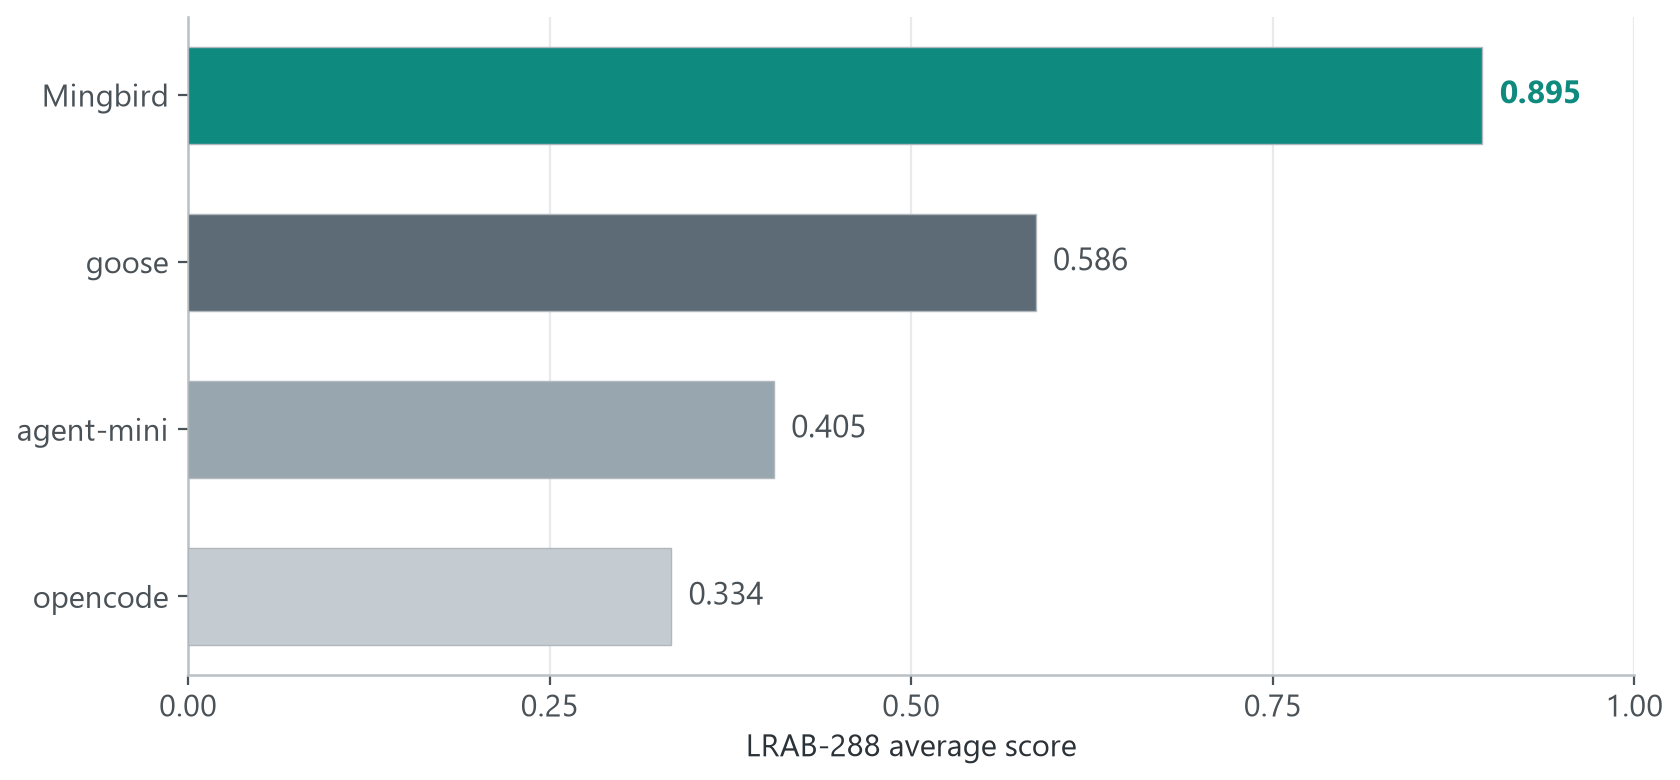
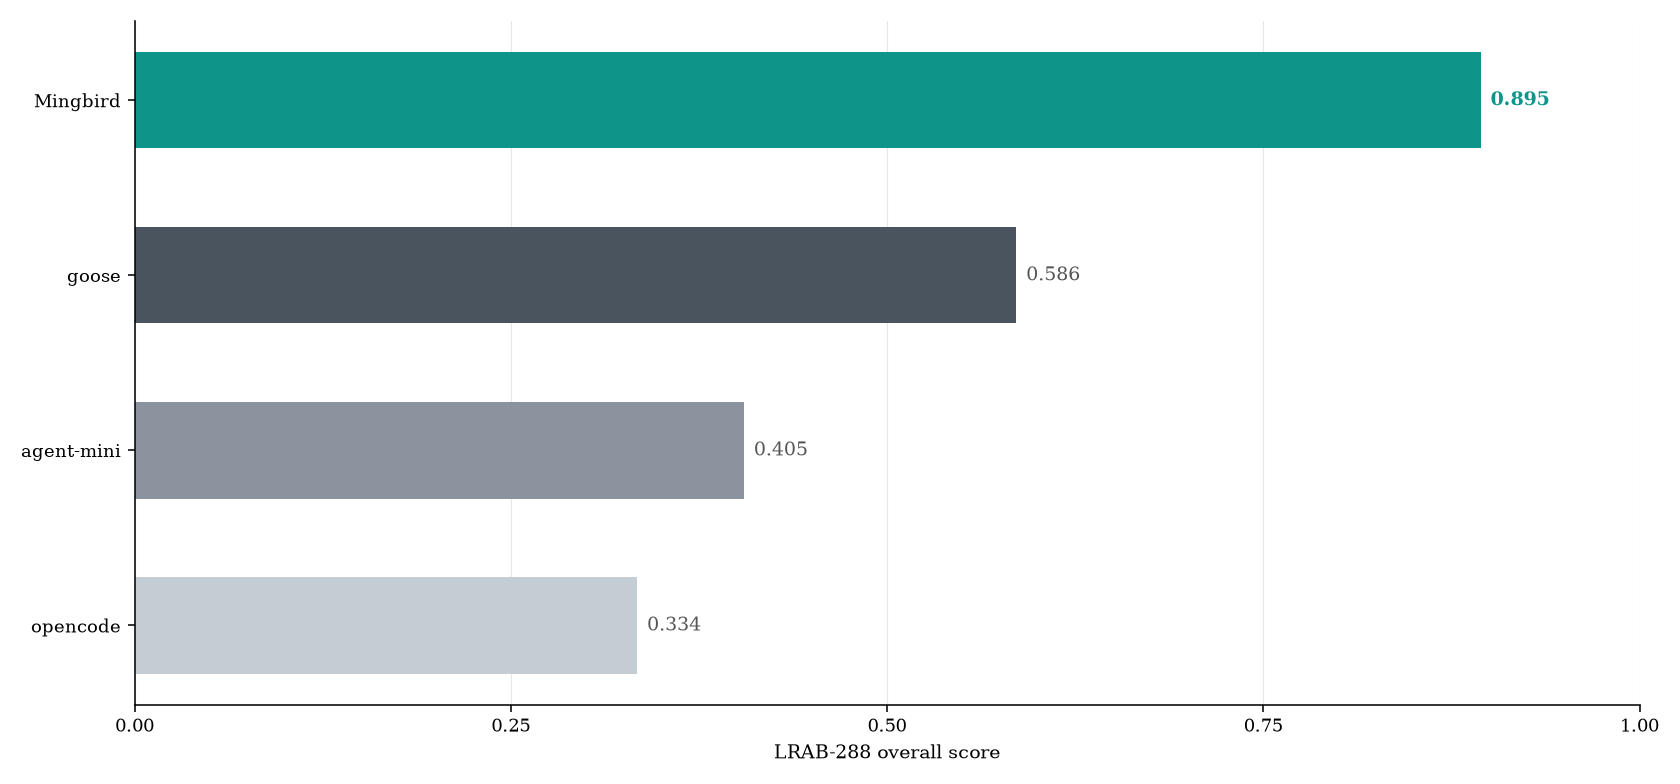
docs: de-slop pass across public surfaces
- MoE annotations removed everywhere (selective labeling: e2b is
  MatFormer 5B/2.3B-effective, only the 35B was tagged); parameter
  tiers only, no architecture cherry-picks
- Benchmarks section rebuilt as three layers: overview table,
  audited subsections each with an italic caveat line, raw-data links
- tau2 non-comparability caveat added (simulator qwen3.8-flash,
  not official gpt-4o, no leaderboard comparison)
- ablation deltas switched to exact paired differences
  (-0.098/-0.048/-0.015/-0.003); bootstrap CIs cross zero, framed
  as directional
- prose pass EN/zh: tagline, purple prose, label-colon telegraphese,
  translation-tone dictionary (12 entries); figures regenerated
  MoE-free with a checked regen script

diff --git a/docs/assets/regen_figures.py b/docs/assets/regen_figures.py
@@ -1,0 +1,168 @@
+"""Regenerate the LRAB figures from benchmarks/lrab_scores.csv.
+
+Run from anywhere:  python docs/assets/regen_figures.py
+
+Outputs (written next to this script):
+  - lrab_by_model.png   grouped bars, per-model segment scores, 4 harnesses
+  - lrab_overall.png    horizontal bars, overall score per harness
+
+Style matches the previous figures: serif, flat colors, value labels, no
+chart title. X-tick labels carry model name + parameter tier only — no
+architecture tags (the old generator stamped "(MoE)" on the 35B group).
+
+Every aggregate is checked against the FACTS.md numbers before plotting;
+the script fails loudly if the CSV no longer reproduces them.
+"""
+
+import csv
+import sys
+from collections import defaultdict
+from pathlib import Path
+
+import matplotlib
+
+matplotlib.use("Agg")
+import matplotlib.pyplot as plt
+
+HERE = Path(__file__).resolve().parent
+CSV_PATH = HERE.parent.parent / "benchmarks" / "lrab_scores.csv"
+
+MODELS = [
+    ("gemma4_e2b", "gemma4:e2b (2B)"),
+    ("qwen3.5_4b", "qwen3.5:4b (4B)"),
+    ("gemma4_12b", "gemma4:12b (12B)"),
+    ("ornith1.5_35b", "ornith-1.5:35b (35B)"),
+]
+HARNESSES = ["Mingbird", "goose", "agent-mini", "opencode"]
+COLORS = {
+    "Mingbird": "#0e9488",
+    "goose": "#4a545e",
+    "agent-mini": "#8b949e",
+    "opencode": "#c4ccd4",
+}
+GRAY = "#555555"
+
+# FACTS.md §4 — the script refuses to draw figures from numbers that drift.
+EXPECTED_SEGMENTS = {
+    "Mingbird": [0.799, 0.921, 0.920, 0.939],
+    "goose": [0.266, 0.636, 0.620, 0.822],
+    "agent-mini": [0.246, 0.706, 0.576, 0.092],
+    "opencode": [0.017, 0.404, 0.140, 0.776],
+}
+EXPECTED_OVERALL = {"Mingbird": 0.895, "goose": 0.586, "agent-mini": 0.405, "opencode": 0.334}
+
+FIGSIZE = (12, 5.6)  # 1680 x 780 px at dpi=140, same canvas as the old figures
+DPI = 140
+
+
+def load_scores():
+    seg = defaultdict(list)
+    with open(CSV_PATH, newline="", encoding="utf-8") as f:
+        for row in csv.DictReader(f):
+            seg[(row["harness"], row["model"])].append(float(row["score"]))
+    segments = {
+        h: [sum(seg[(h, m)]) / len(seg[(h, m)]) for m, _ in MODELS] for h in HARNESSES
+    }
+    overall = {h: sum(segments[h]) / len(MODELS) for h in HARNESSES}
+    return segments, overall
+
+
+def check(segments, overall):
+    problems = []
+    for h in HARNESSES:
+        for i, got in enumerate(segments[h]):
+            if round(got, 3) != EXPECTED_SEGMENTS[h][i]:
+                problems.append(
+                    f"{h} {MODELS[i][1]}: got {got:.3f}, expected {EXPECTED_SEGMENTS[h][i]}"
+                )
+        if round(overall[h], 3) != EXPECTED_OVERALL[h]:
+            problems.append(f"{h} overall: got {overall[h]:.3f}, expected {EXPECTED_OVERALL[h]}")
+    if problems:
+        sys.exit("CSV does not reproduce FACTS.md numbers:\n  " + "\n  ".join(problems))
+
+
+def style_axes(ax):
+    ax.spines["top"].set_visible(False)
+    ax.spines["right"].set_visible(False)
+
+
+def fig_by_model(segments):
+    fig, ax = plt.subplots(figsize=FIGSIZE, dpi=DPI)
+    n_groups, n_bars = len(MODELS), len(HARNESSES)
+    width = 0.19
+    offsets = [(i - (n_bars - 1) / 2) * width for i in range(n_bars)]
+
+    for i, h in enumerate(HARNESSES):
+        xs = [g + offsets[i] for g in range(n_groups)]
+        vals = segments[h]
+        ax.bar(xs, vals, width=width, label=h, color=COLORS[h], edgecolor="none")
+        for x, v in zip(xs, vals):
+            ax.annotate(
+                f"{v:.3f}",
+                (x, v),
+                xytext=(0, 2),
+                textcoords="offset points",
+                ha="center",
+                fontsize=7.5,
+                color=COLORS["Mingbird"] if h == "Mingbird" else GRAY,
+                fontweight="bold" if h == "Mingbird" else "normal",
+            )
+
+    ax.set_xticks(range(n_groups))
+    ax.set_xticklabels([label for _, label in MODELS], fontsize=10)
+    ax.set_ylim(0, 1.0)
+    ax.set_yticks([0, 0.25, 0.50, 0.75, 1.0])
+    ax.set_ylabel("LRAB-288 task score", fontsize=10)
+    ax.grid(axis="y", alpha=0.3, linewidth=0.6)
+    ax.set_axisbelow(True)
+    ax.tick_params(labelsize=9)
+    style_axes(ax)
+    ax.legend(ncol=n_bars, frameon=False, loc="upper center", bbox_to_anchor=(0.5, 1.10), fontsize=9)
+    fig.tight_layout()
+    fig.savefig(HERE / "lrab_by_model.png")
+    plt.close(fig)
+
+
+def fig_overall(overall):
+    fig, ax = plt.subplots(figsize=FIGSIZE, dpi=DPI)
+    order = sorted(HARNESSES, key=lambda h: overall[h])  # lowest at the bottom axis position 0
+    ys = range(len(order))
+    ax.barh(ys, [overall[h] for h in order], height=0.55, color=[COLORS[h] for h in order])
+    for y, h in zip(ys, order):
+        v = overall[h]
+        ax.annotate(
+            f"{v:.3f}",
+            (v, y),
+            xytext=(5, 0),
+            textcoords="offset points",
+            va="center",
+            fontsize=10,
+            color=COLORS["Mingbird"] if h == "Mingbird" else GRAY,
+            fontweight="bold" if h == "Mingbird" else "normal",
+        )
+    ax.set_yticks(list(ys))
+    ax.set_yticklabels(order, fontsize=10)
+    ax.set_xlim(0, 1.0)
+    ax.set_xticks([0, 0.25, 0.50, 0.75, 1.0])
+    ax.set_xlabel("LRAB-288 overall score", fontsize=10)
+    ax.grid(axis="x", alpha=0.3, linewidth=0.6)
+    ax.set_axisbelow(True)
+    ax.tick_params(labelsize=9)
+    style_axes(ax)
+    fig.tight_layout()
+    fig.savefig(HERE / "lrab_overall.png")
+    plt.close(fig)
+
+
+def main():
+    segments, overall = load_scores()
+    check(segments, overall)
+    fig_by_model(segments)
+    fig_overall(overall)
+    print("wrote lrab_by_model.png, lrab_overall.png")
+    print("xticks:", ", ".join(label for _, label in MODELS))
+
+
+if __name__ == "__main__":
+    matplotlib.rcParams.update({"font.family": "serif", "font.serif": ["DejaVu Serif"]})
+    main()

diff --git a/README.md b/README.md
@@ -1,8 +1,8 @@
 # 🐦 Mingbird
 
-**Small local models on your laptop that actually finish the job — not just chat.**
+**A local-first agent harness that gets real work out of 2–9B models on integrated graphics.**
 
-Mingbird is a local-first agent harness for Windows + Ollama (experimental Linux/macOS builds), designed for the models most people can actually run: **2–9B parameters on integrated graphics and 16–32 GB of RAM** (measured up to a 35B MoE). No cloud, no account, no telemetry (no outbound connections at all beyond the Ollama/search endpoints you explicitly configure); an integrated or entry-level discrete GPU is all it asks.
+It targets Windows + Ollama (experimental Linux/macOS builds) and the models most people can actually run: **2–9B parameters, integrated graphics, 16–32 GB of RAM** (measured up to 35B). No cloud, no account, no telemetry — no outbound connections at all beyond the Ollama/search endpoints you explicitly configure.
 
 [中文版](README_zh.md) · Apache-2.0 · Windows 10/11 · Linux & macOS (experimental) · Offline-first
 
@@ -12,15 +12,15 @@ Mingbird is a local-first agent harness for Windows + Ollama (experimental Linux
 
 Mainstream agent frameworks are designed for large cloud models. Feed them a 2B local model and everything from the demo videos falls apart: full-tool prefill blows the context, the model cannot self-correct, it loops on tool calls, or quietly gives up halfway through.
 
-**Our position: these are harness defects, not model defects.** Small models usually "know what to do" — what they cannot do is reliably "emit and execute" it. Mingbird is the harness that fills exactly that gap — the same model that only chats elsewhere starts getting work done here.
+**Our claim: these are harness defects, not model defects.** Small models usually know what to do — what they cannot do is reliably output and execute it, step by step. Mingbird is the harness that fills exactly that gap: the same model that only chats elsewhere delivers artifacts here.
 
 ## What it can do
 
 - **Real tasks**: write code and run the tests, organize files, web research, analyze data, call MCP tools.
-- **Streaming output + visible thinking** — watch it reason, then the thinking folds away and the answer flows.
+- **Streaming output + visible thinking** — the delivery streams; the thinking folds away once the run is done.
 - **Drag-and-drop / paste attachments** — drop a file into the chat or press Ctrl+V: clipboard files and screenshots become attachments on the spot, sent along with your instruction.
 - **Voice input out of the box** — the installer bundles a local STT model (pure CPU, ~20× real time) that stops automatically when you stop talking.
-- **Task time-box (off by default)** — type `40` / `1.5h` / `half an hour` into the box, or write "限时 40 分钟" (or "timebox 40 minutes") right in the task description (auto-detected, highest priority); the harness nudges the run to wind down as the deadline approaches. Local-model users care about wall-clock time — deadlines are a first-class setting.
+- **Task time-box (off by default)** — type `40` / `1.5h` / `half an hour` into the box, or write "限时 40 分钟" (or "timebox 40 minutes") right in the task description (auto-detected, highest priority); the harness nudges the run to wind down as the deadline approaches. Local-model users care about wall-clock time.
 - **Session memory** — history persists locally; searchable and replayable.
 - **Model auto-detection** — whatever you pulled in Ollama is what you use, up to 256K context.
 - **Skills & MCP** — markdown skills load on demand; MCP servers are plain JSON config.
@@ -39,34 +39,47 @@ Every mechanism comes from "small models can't do X, so the harness does it for 
 | …escape tool-demo loops | Q&A/task layering (chat answers once and stops) + signature-level anti-loop with an escalating ladder: nudge → hard reset → graceful exit |
 | …fit all tools in context | flat prefill loads by category; factory prefill is exactly 797 tokens, and CI fails any change that grows it by a single byte |
 | …emit a large file in one call | per-call output cap is 8192 (was 2048); when truncation still bites, the model gets "write the skeleton, then append" chunked feedback instead of an empty-turn spiral |
-| …stop crawling through huge files | crawl guard v2 works on a byte budget (2× file size, clamped 64KB–512KB) — it never refuses, progress keeps flowing |
+| …stop crawling through huge files | crawl guard v2 works on a byte budget (2× file size, clamped to 64KB–512KB) — it never refuses |
 | …stay on target in long tasks | delivery self-check gate: before claiming done, it re-reads the original task and verifies its work |
 | …resist destructive impulses | a five-ring safety net catches them (see [Safety](#safety)) |
 
-Zero hardcoding: Ollama address, executable, GPU environment variables, model aliases — all detected at runtime or configured in `~/.ollama_agent/config.json` (see [AGENTS.md](AGENTS.md)). Quality floor: 441 tests in v1.6.0, the prefill zero-growth assertion included.
+Nothing is hardcoded: the Ollama address, executable, GPU environment variables, and model aliases are detected at runtime or configured in `~/.ollama_agent/config.json` (see [AGENTS.md](AGENTS.md)). The quality floor is held up by 441 tests in v1.6.0, the prefill zero-growth assertion included.
 
 ## Measured: same model, different harness
 
-### LRAB-288 (our benchmark, raw data public)
+Layer 1 is the whole picture in four lines; layer 2 gives the design, the table, and the caveat for each benchmark; layer 3 points at the raw data.
 
-4 harnesses (Mingbird / goose / agent-mini / opencode, all stock) × 4 open models (gemma4:e2b 2B · qwen3.5:4b 4B · gemma4:12b 12B · ornith-1.5:35b 35B MoE) × 18 real tasks = 288 cells. Same machine, same budgets (workflow 90 min / long-horizon 180 min), deterministic artifact scoring, timeouts score 0.
+**Layer 1 — at a glance:**
+
+| Benchmark | Run by | Result in one line |
+|---|---|---|
+| LRAB-288 | us (self-built) | overall 0.895 vs goose 0.586 / agent-mini 0.405 / opencode 0.334 |
+| τ²-bench, 3 domains | Sierra Research (external) | retail 0.789 / airline 0.740 / telecom 1.000 — first, tied on telecom |
+| BFCL v3 multi_turn | Berkeley FC Leaderboard (external) | 36.25% vs 46.50% — we lose to the model's native FC channel |
+| Ablations (v1.5.0 code) | us | removing `finish_gate` costs the most: −0.098 |
+
+### LRAB-288 (our benchmark)
+
+4 harnesses (Mingbird / goose / agent-mini / opencode, all stock) × 4 open models (gemma4:e2b 2B · qwen3.5:4b 4B · gemma4:12b 12B · ornith-1.5:35b 35B) × 18 real tasks = 288 cells. Same machine, same budgets (workflow 90 min / long-horizon 180 min), deterministic artifact scoring, timeouts score 0.
 
 ![By model size](docs/assets/lrab_by_model.png)
 
-| Harness | 2B | 4B | 12B | 35B MoE | **overall** |
+| Harness | 2B | 4B | 12B | 35B | **overall** |
 |---|---|---|---|---|---|
 | **Mingbird** | **0.799** | **0.921** | **0.920** | **0.939** | **0.895** |
 | goose | 0.266 | 0.636 | 0.620 | 0.822 | 0.586 |
 | agent-mini | 0.246 | 0.706 | 0.576 | 0.092 | 0.405 |
 | opencode | 0.017 | 0.404 | 0.140 | 0.776 | 0.334 |
 
-- **The 2B column is the story**: 0.799 vs 0.017–0.266 — the only harness with no small-model cliff, at exactly the size laptops can run. On the 3 long-horizon tasks Mingbird also leads (0.808).
-- **Significance** (Holm-corrected Wilcoxon, paired by task): the edge is significant on 2B/4B/12B. At 35B the field compresses — Mingbird vs goose is p=0.085, not significant. We state that bound as-is.
-- **Ablations** (v1.5.0 code, same-code baseline 0.821, 18 tasks × 4 variants): remove `finish_gate` → 0.723 (−0.098, the largest single cost) · remove `verify_feedback` → 0.772 (−0.049) · remove `anti_loop` → 0.805 (−0.016) · remove `flat_prefill` → 0.818 (−0.003, neutral at 2B). All four mechanisms are non-negative. (Separate batch from the 0.895 above; the two are not comparable.)
+- **The 2B column is the story**: 0.799 vs 0.017–0.266 — of the four harnesses, the only one with no small-model cliff, and 2B is the size an iGPU laptop runs comfortably.
+- **Significance** (Holm-corrected Wilcoxon, paired by task): the edge is significant on 2B/4B/12B. At 35B the field compresses — Mingbird vs goose is p=0.085, not significant. We state that bound.
+- On the 3 long-horizon tasks (LH-01…03, 180-minute budget each), Mingbird leads as well (0.808 average).
+
+*Self-built benchmark, 18 tasks — the task set, scoring code, and per-cell data are all public; rerun it yourself.*
 
 ### τ²-bench, three domains, four harnesses (external)
 
-Sierra Research's [τ²-bench](https://github.com/sierra-research/tau2-bench), all three domains, final. Identical setup for every harness: the agent is the same local `qwen3.5:4b` (Ollama), the user simulator is cloud `qwen3.8-flash` for all four, pass^1, error cells score 0, and scoring checks the final database state — an agent that fakes tool calls fails the DB replay.
+Sierra Research's [τ²-bench](https://github.com/sierra-research/tau2-bench), all three domains, final. Identical setup for every harness: the agent is the same local `qwen3.5:4b` (Ollama), pass^1, error cells score 0, and scoring checks the final database state — an agent that fakes tool calls fails the DB replay.
 
 ![tau2](docs/assets/tau2_headline.png)
 
@@ -77,13 +90,45 @@ Sierra Research's [τ²-bench](https://github.com/sierra-research/tau2-bench), a
 | goose | 0.588 | 0.460 | 0.377 |
 | opencode | 0.246 | 0.460 | 0.298 |
 
-telecom is a saturated domain — the two leaders both take full marks, so it separates nothing; we report it as-is rather than picking a friendlier cut.
+telecom separates nothing — the two leaders both take full marks — so we keep it and don't shop for a friendlier cut of the numbers.
 
-### The number we don't like
+*The user simulator is cloud `qwen3.8-flash`, identical for all four harnesses — not the official gpt-4o user setup, so these runs are not comparable with the official τ² leaderboard.*
 
-BFCL v3 multi_turn (800 tasks, same 4B model, official evaluator): **Mingbird 36.25% vs the model's native function-calling channel 46.50%**. On a 4B, a dedicated FC channel beats a general agent loop — the cost of generality, disclosed as-is.
+### BFCL v3 multi_turn — the number we don't like (external)
 
-All raw data is public: [`benchmarks/lrab_scores.csv`](benchmarks/lrab_scores.csv) (288 cells), the τ² three-domain manifests, and the BFCL two-arm scoring details — [benchmarks/](benchmarks/README.md).
+800 tasks (base / miss_func / miss_param / long_context, 200 each), same 4B model, official evaluator, two arms: the model's native function-calling channel vs Mingbird's general loop.
+
+| Channel | Overall |
+|---|---|
+| Native FC (qwen35-4b-FC) | **46.50%** |
+| Mingbird agent loop | 36.25% |
+
+On a 4B, the dedicated FC channel beats a general agent loop — the cost of generality, disclosed as-is.
+
+*We lose this one. The native FC channel also cannot carry LRAB-style multi-step artifact work in the first place (no working directory, no file tools, no budget management).*
+
+### Ablations: which mechanism pays for itself (v1.5.0 code)
+
+18 LRAB tasks, `gemma4:e2b`, one mechanism disabled per variant via the `AGENT_ABLATION` environment gate; baseline = the same-code all-mechanisms arm (0.821).
+
+| Variant | total (18 tasks) | Δ vs baseline |
+|---|---|---|
+| all mechanisms on (baseline) | 0.821 | — |
+| − finish_gate | 0.723 | **−0.098** |
+| − verify_feedback | 0.772 | −0.048 |
+| − anti_loop | 0.805 | −0.015 |
+| − flat_prefill | 0.818 | −0.003 |
+
+Two mechanisms carry most of the effect (`finish_gate`, the verify-feedback loop); the other two are cheap insurance — anti-loop and flat prefill (the latter is neutral at 2B).
+
+*Each arm is 18 cells, so read this as directional. The 0.821 baseline is a contemporaneous same-code control — a separate batch from the 0.895 above; the two are never mixed.*
+
+**Layer 3 — verify it yourself.** All raw data is public in [benchmarks/](benchmarks/README.md):
+
+- [`benchmarks/lrab_scores.csv`](benchmarks/lrab_scores.csv) — all 288 cells (harness, task, model, score, wall time)
+- [`benchmarks/tau2/`](benchmarks/tau2) — per-trial manifests, all three τ² domains
+- [`benchmarks/bfcl/`](benchmarks/bfcl) — BFCL two-arm scoring details
+- [`benchmarks/ablation/`](benchmarks/ablation) — ablation per-cell scores (5 arms × 18 tasks)
 
 ## Hardware
 
@@ -92,9 +137,9 @@ Measured on real machines, not estimated:
 | Tier | Hardware | Models | Experience |
 |---|---|---|---|
 | Entry | AMD 680M iGPU · 16 GB RAM | 2–4B | streaming, near raw-Ollama speed |
-| Base | Intel Arc B390 iGPU · 32 GB RAM | 2–35B (MoE) | 35B long tasks run end-to-end |
+| Base | Intel Arc B390 iGPU · 32 GB RAM | 2–35B | 35B long tasks run end-to-end |
 
-An integrated GPU or an entry-level discrete GPU is enough; higher-end cards naturally work too. Mingbird does not wrap or proxy the model — its own static prefill is 797 tokens.
+An integrated GPU or an entry-level discrete GPU is enough; higher-end cards work too. The only thing Mingbird adds to the model is its own static text: 797 tokens.
 
 ## Getting started
 
@@ -145,7 +190,7 @@ Escape hatch: `AGENT_UNSAFE=1` turns the whole net off — at your own risk.
 
 ## Honest limits
 
-- A 2B model will not rewrite your entire codebase in one shot — but it handles the bulk of everyday agent work, and when it cannot, it fails loudly (rather than silently wrong).
+- A 2B model will not rewrite your entire codebase in one shot — but it handles the bulk of everyday agent work, and when it cannot, it fails loudly instead of failing silently.
 - On BFCL multi_turn, the general loop scores below the model's native FC channel (36.25% vs 46.50%).
 - 35B on an iGPU runs end-to-end but is not fast (~26 tok/s at 128K context).
 - Linux and macOS packages are experimental CI builds; Windows is the primary platform.

diff --git a/benchmarks/README.md b/benchmarks/README.md
@@ -8,7 +8,7 @@ Everything here is reproducible on your machine; nothing requires trusting us.
 **Definition.** 4 harnesses × 4 open models × 18 tasks = **288 cells**.
 
 - **Harnesses**: Mingbird, goose, agent-mini, opencode — stock, no patches, each driving the same Ollama backend on the same machine (Intel Arc B390 iGPU, 32 GB shared memory, Windows 11).
-- **Models**: `gemma4:e2b` (2B) · `qwen3.5:4b` (4B) · `gemma4:12b` (12B) · `ornith-1.5:35b` (35B MoE, multimodal).
+- **Models**: `gemma4:e2b` (2B) · `qwen3.5:4b` (4B) · `gemma4:12b` (12B) · `ornith-1.5:35b` (35B, multimodal).
 - **Tasks**: 18 real tasks — 15 workflow tasks (WF-01…WF-15: code+tests, data analysis, web research with real search, file organization, refactoring, …) and 3 long-horizon tasks (LH-01…LH-03, multi-hour multi-phase builds).
 - **Protocol**: per-cell budget — workflow 90 min, long-horizon 180 min; 1 retry, latest attempt wins; **timeouts score 0**; deterministic artifact-based scoring (files exist, tests actually pass, reports contain the required findings). Every cell runs in a fresh working directory; harness processes are isolated from the scoring.
 
@@ -77,8 +77,8 @@ Notes:
 |---|---|---|
 | baseline (all mechanisms on) | 0.821 | — |
 | − finish_gate | 0.723 | **−0.098** |
-| − verify_feedback | 0.772 | −0.049 |
-| − anti_loop | 0.805 | −0.016 |
+| − verify_feedback | 0.772 | −0.048 |
+| − anti_loop | 0.805 | −0.015 |
 | − flat_prefill | 0.818 | −0.003 |
 
 All four mechanisms are non-negative; the contribution gradient is: prevent-early-finish > verify-feedback loop > anti-loop > prefill (neutral at 2B).
